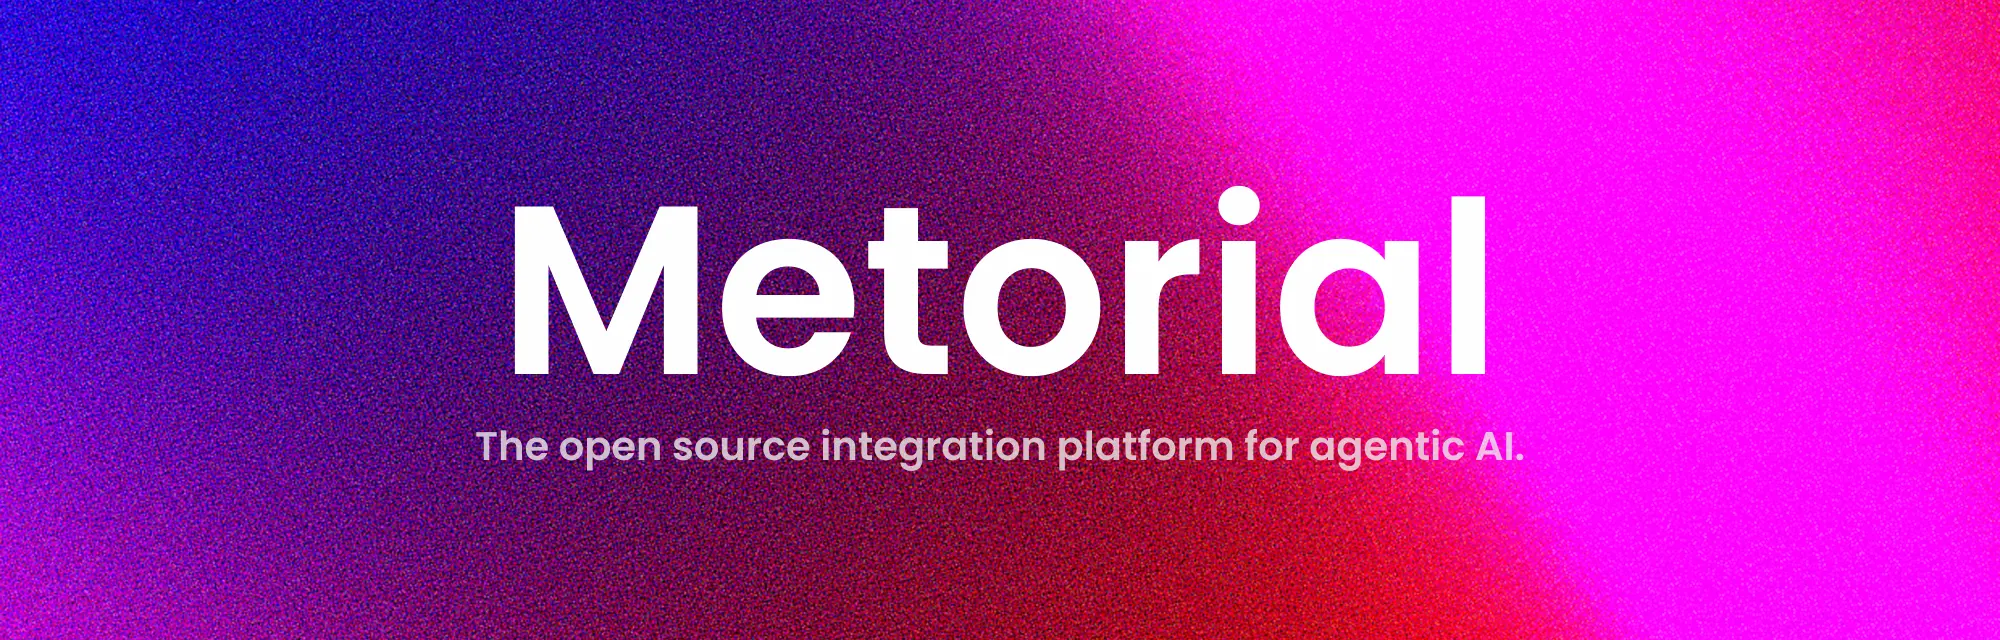
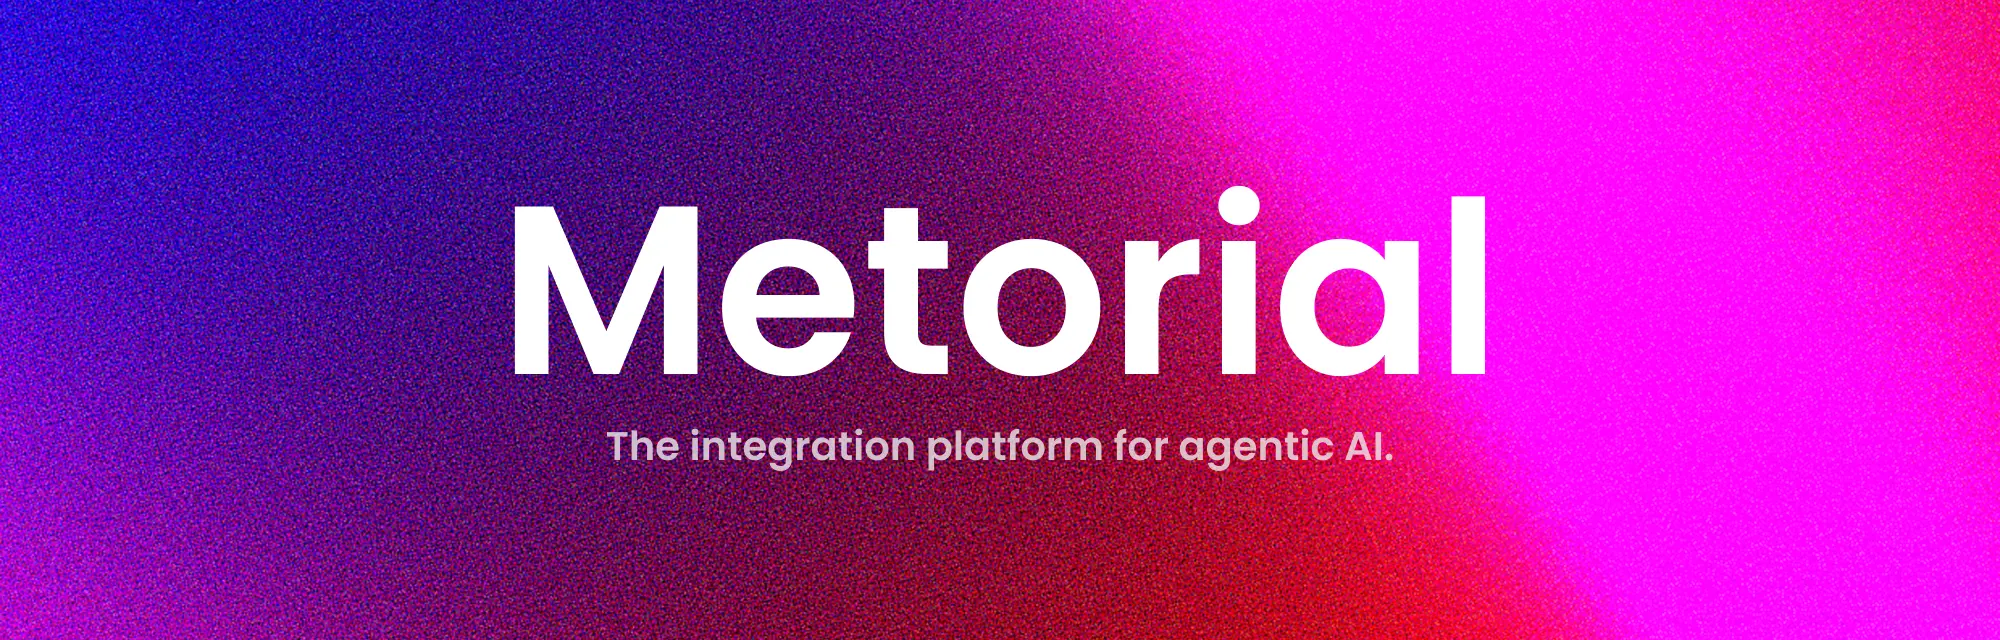
Get ready for oss

Changed region(s): [[0.217, 0.6562, 0.775, 0.75]]

diff --git a/README.md b/README.md
@@ -5,7 +5,7 @@
 <h1 align="center">Metorial (YC F25)</h1>
 
 <p align="center">
-The open source integration platform for agentic AI. <br />
+The integration platform for agentic AI. <br />
 Connect any AI model to thousands of APIs, data sources, and tools with a single function call.
 </p>
 
@@ -36,7 +36,7 @@ If you want to build a custom integration, check out our [API documentation](htt
 
 MCP is a powerful standard for connecting AI models to external data and tools, but it focuses on enabling AI clients (like Claude Desktop or Cursor) to connect to tools and data sources. 
 Metorial builds on MCP but makes it a one-liner for developers to connect their AI apps to any API, data source, or tool.
-Thereby we enable developers to create agentic AI applications that can interact with the world in simple, flexible, and powerful ways.
+Thereby we enable developers to create agentic AI applications that can interact with other systems in a reliable, simple, and secure way.
 
 ## Tech Stack
 
@@ -60,7 +60,7 @@ Metorial is built to make it super easy for developers to connect their AI apps 
 * **✨ One-liner SDKs**: Connect your AI model to any API, data source, or tool with a single function call.
 * **🛠 Powered by MCP**: Metorial is built on the Model Context Protocol, a standard for connecting AI models to external data and tools.
 * **🚀 Get started in minutes**: Metorial is designed to be easy to use, with a simple setup process and a unified interface for all your AI integrations.
-* **🕊 Open source**: Metorial is open source, so you can run it on your own infrastructure or use our hosted platform.
+* **🕊 Self-hosting**: Metorial's source code is hosted on GitHub and you can self-host it.
 * **👩💻 Built for developers**: Metorial isn't built for end users, but for developers who need high quality tooling, monitoring, and customization options to build agentic AI applications.
 
 ### Large Server Catalog
